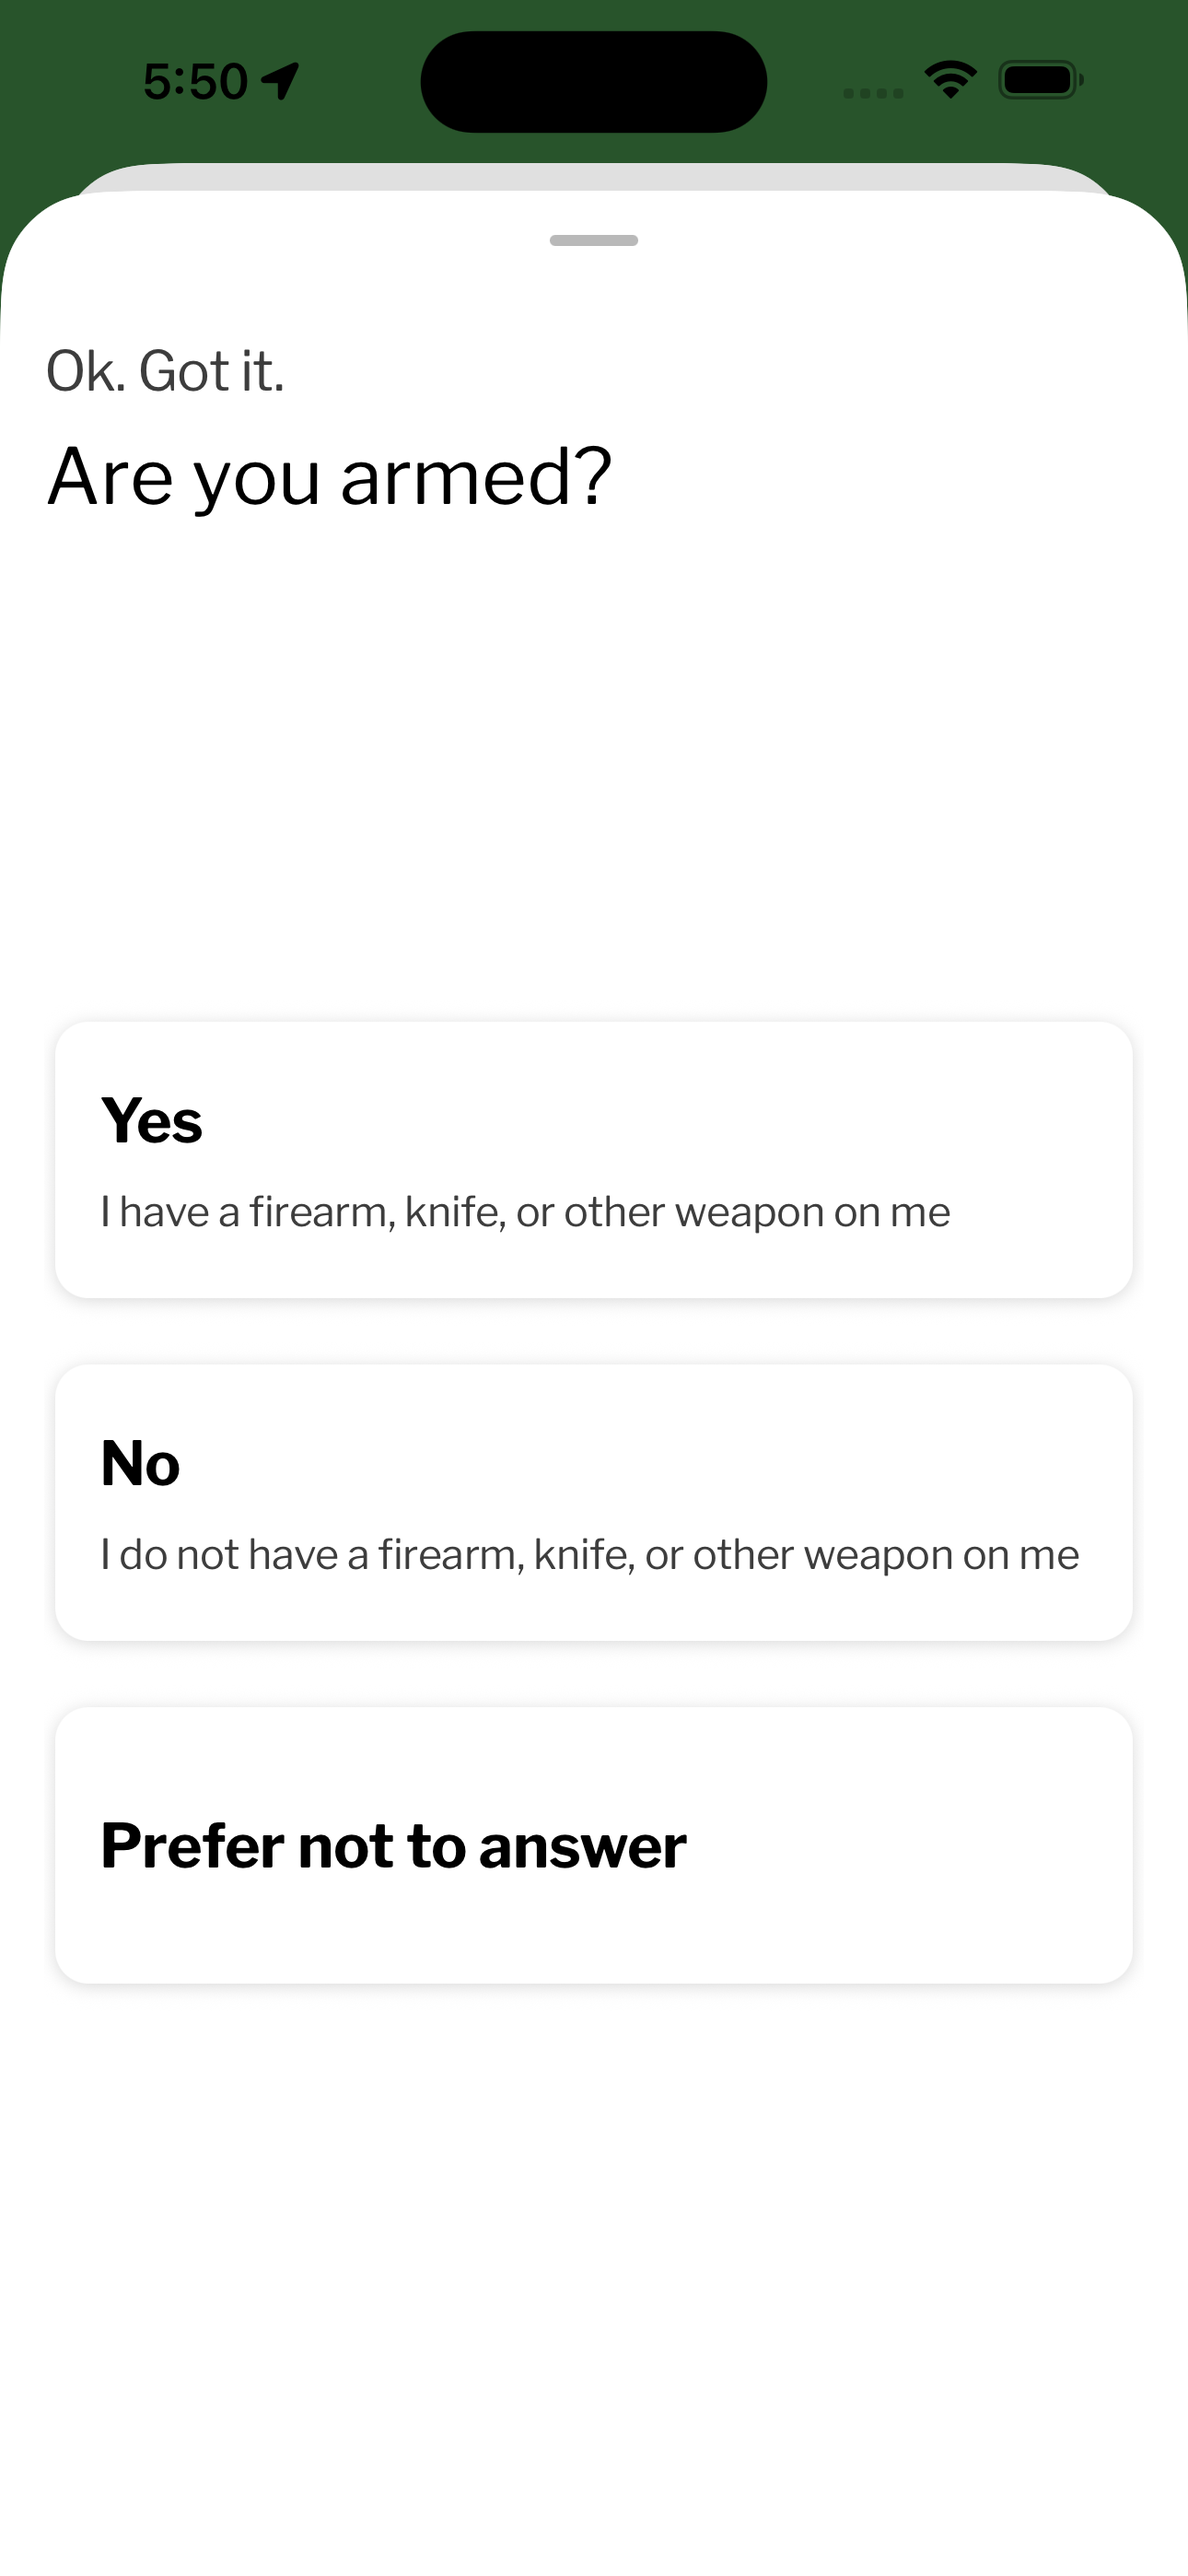
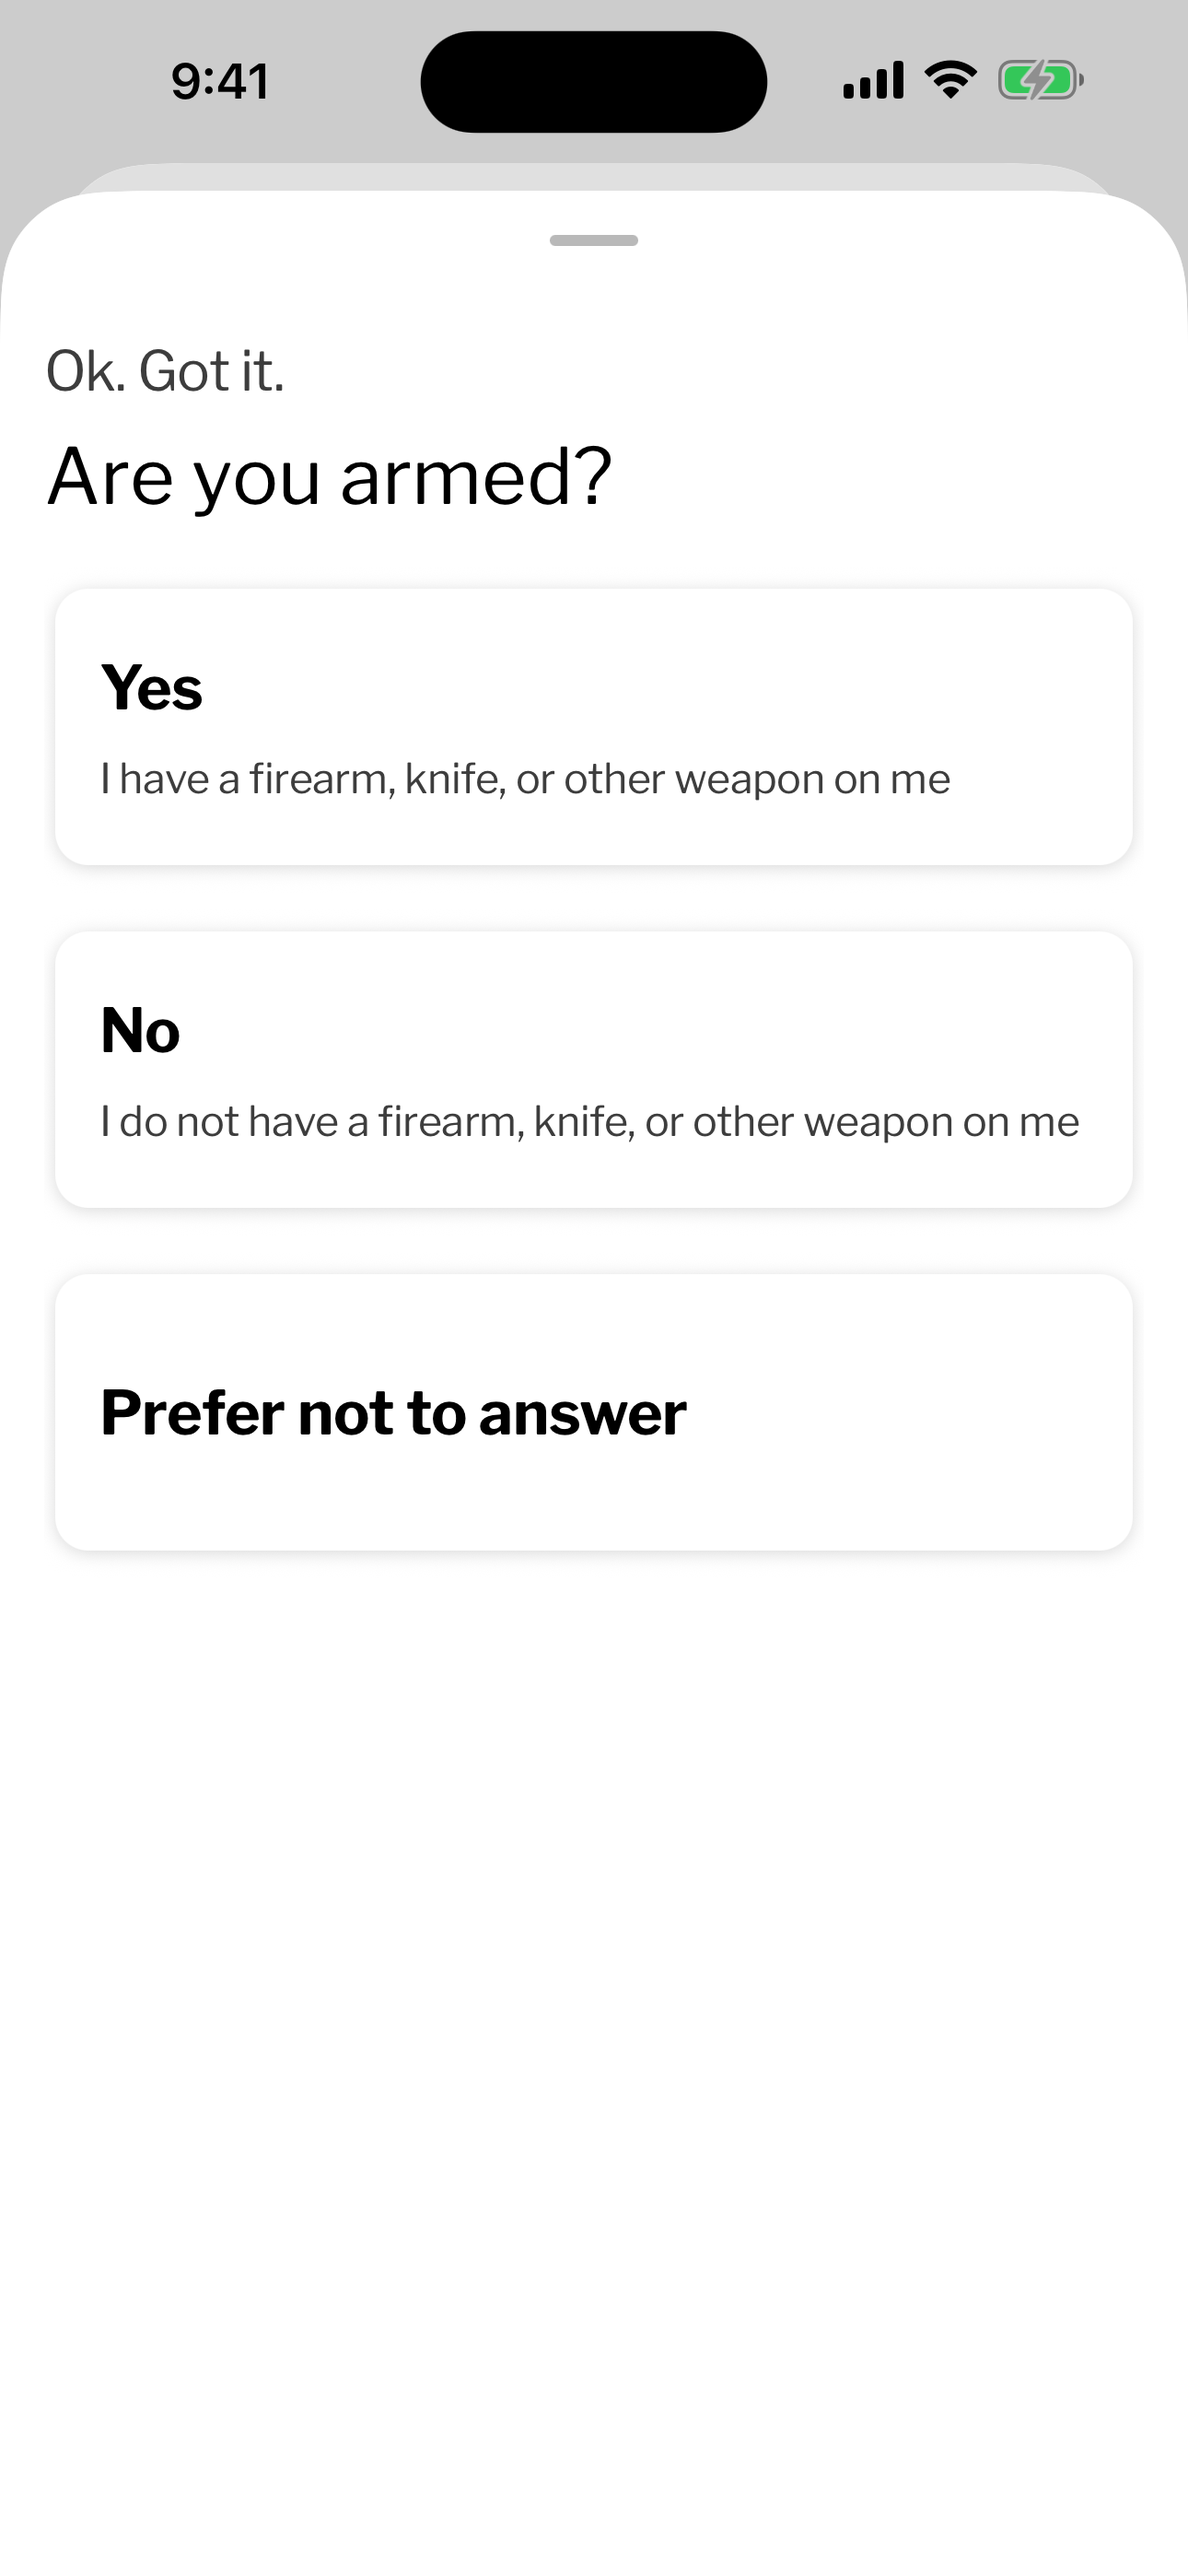
Refresh the Toolkit and Question screens in the Fresh Greens case study

diff --git a/src/lib/myles-97/preview-originals.ts b/src/lib/myles-97/preview-originals.ts
@@ -63,7 +63,7 @@ function emailSample(after: boolean): ArtSample {
 export const projectSamples: Record<FeaturedProjectId, readonly ArtSample[]> = {
   "fresh-greens": [
     ...arrivalLightSamples,
-    { label: "Support", detail: "Support options", alt: "The four choices in the Fresh Greens safety toolkit.", src: route + "/safety-toolkit.png", width: 1290, height: 2796, crop: [.025, .19, .95, .395] },
+    { label: "Support", detail: "Support options", alt: "The four choices in the Fresh Greens safety toolkit.", src: route + "/safety-toolkit.png", width: 1290, height: 2796, crop: [.025, .215, .95, .33] },
   ],
   understandingfafsa: [
     emailSample(true), emailSample(false),

diff --git a/src/components/fresh-greens/pulled-over-journey.tsx b/src/components/fresh-greens/pulled-over-journey.tsx
@@ -151,7 +151,7 @@ export function PulledOverJourney() {
                   alt={step.alt}
                   width={1290}
                   height={2796}
-                  unoptimized={step.key === "contact"}
+                  unoptimized={step.key !== "reassurance"}
                   sizes="(max-width: 720px) 66vw, 300px"
                   className="fg-feature-shot"
                 />
